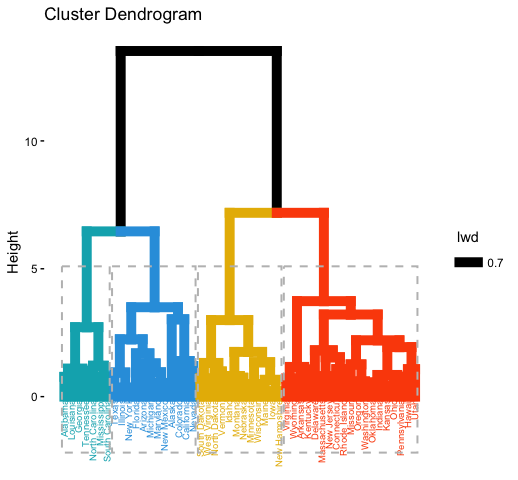
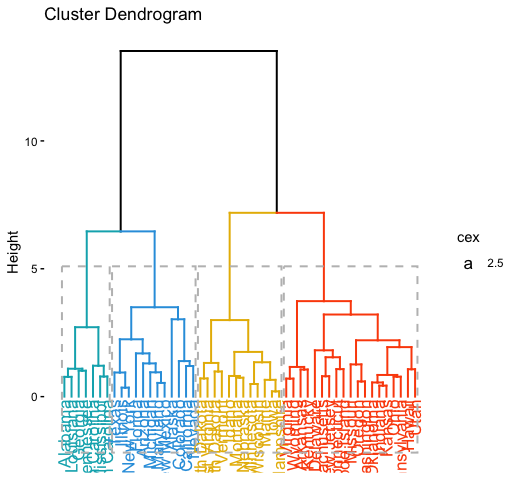
docs: refresh examples and package documentation

Changed region(s): [[0.0927, 0.0938, 0.834, 1.0], [0.8649, 0.4688, 0.9884, 0.5625]]

diff --git a/README.md b/README.md
@@ -1,3 +1,4 @@
+
 [![R-CMD-check](https://github.com/kassambara/factoextra/actions/workflows/R-CMD-check.yaml/badge.svg)](https://github.com/kassambara/factoextra/actions/workflows/R-CMD-check.yaml)
 [![CRAN_Status_Badge](https://www.r-pkg.org/badges/version/factoextra)](https://cran.r-project.org/package=factoextra)
 [![Downloads](https://cranlogs.r-pkg.org/badges/factoextra)](https://cran.r-project.org/package=factoextra)
@@ -61,7 +62,7 @@ reduction analysis - we developed an easy-to-use R package named
 
 - The R package **factoextra** has flexible and easy-to-use methods to
   extract quickly, in a human readable standard data format, the
-  analysis results from the different packages mentioned above.  
+  analysis results from the different packages mentioned above.\
 - It produces a **ggplot2**-based **elegant data visualization** with
   less typing.
 - It contains also many functions facilitating clustering analysis and
@@ -87,7 +88,7 @@ at: <https://rpkgs.datanovia.com/factoextra/index.html>.
     visualizing the most important information contained in your data.
 
 2.  *After PCA, CA, MCA, MFA, FAMD and HMFA, the most important
-    row/column elements* can be highlighted using :  
+    row/column elements* can be highlighted using :\
 
 - their cos2 values corresponding to their quality of representation on
   the factor map
@@ -96,7 +97,7 @@ at: <https://rpkgs.datanovia.com/factoextra/index.html>.
 <span class="success">If you want to do this, the factoextra package
 provides a convenient solution.</span>
 
-1.  *PCA and (M)CA are used sometimes for prediction problems* : one can
+3.  *PCA and (M)CA are used sometimes for prediction problems* : one can
     predict the coordinates of new supplementary variables (quantitative
     and qualitative) and supplementary individuals using the information
     provided by the previously performed PCA or (M)CA. This can be done
@@ -109,7 +110,7 @@ to visualize the position of the supplementary variables/individuals on
 the factor map using ggplot2: then factoextra can help you. It’s quick,
 write less and do more…</span>
 
-1.  *Several functions from different packages - FactoMineR, ade4,
+4.  *Several functions from different packages - FactoMineR, ade4,
     ExPosition, stats - are available in R for performing PCA, CA or
     MCA*. However, The components of the output vary from package to
     package.
@@ -168,6 +169,12 @@ library("factoextra")
 # New helper: map legacy FactoMineR category labels
 map_factominer_legacy_names(res.mfa, c("var.level"))
 
+# New support: supplementary qualitative categories in FactoMineR FAMD/MFA
+get_famd(res.famd, "quali.sup")
+fviz_famd_var(res.famd, "quali.sup")
+get_mfa(res.mfa, "quali.sup")
+fviz_mfa_var(res.mfa, "quali.sup")
+
 # New helper: remove stale package lock directories
 clean_lock_files()
 
@@ -185,13 +192,13 @@ list.</span>
 ### Visualizing dimension reduction analysis outputs
 
 | Functions | Description |
-|-----------|-------------------------------------------------------------|
+|----|----|
 | *fviz_eig (or fviz_eigenvalue)* | Extract and visualize the eigenvalues/variances of dimensions. |
 | *fviz_pca* | Graph of individuals/variables from the output of *Principal Component Analysis* (PCA). |
 | *fviz_ca* | Graph of column/row variables from the output of *Correspondence Analysis* (CA). |
 | *fviz_mca* | Graph of individuals/variables from the output of *Multiple Correspondence Analysis* (MCA). |
-| *fviz_mfa* | Graph of individuals/variables from the output of *Multiple Factor Analysis* (MFA). |
-| *fviz_famd* | Graph of individuals/variables from the output of *Factor Analysis of Mixed Data* (FAMD). |
+| *fviz_mfa* | Graph of individuals/variables from the output of *Multiple Factor Analysis* (MFA), including supplementary qualitative categories. |
+| *fviz_famd* | Graph of individuals/variables from the output of *Factor Analysis of Mixed Data* (FAMD), including supplementary qualitative categories. |
 | *fviz_hmfa* | Graph of individuals/variables from the output of *Hierarchical Multiple Factor Analysis* (HMFA). |
 | *fviz_ellipses* | Draw confidence ellipses around the categories. |
 | *fviz_cos2* | Visualize the quality of representation of the row/column variable from the results of PCA, CA, MCA functions. |
@@ -200,20 +207,20 @@ list.</span>
 ### Extracting data from dimension reduction analysis outputs
 
 | Functions | Description |
-|-----------|-------------------------------------------------------------|
+|----|----|
 | *get_eigenvalue* | Extract and visualize the eigenvalues/variances of dimensions. |
 | *get_pca* | Extract all the results (coordinates, squared cosine, contributions) for the active individuals/variables from *Principal Component Analysis* (PCA) outputs. |
 | *get_ca* | Extract all the results (coordinates, squared cosine, contributions) for the active column/row variables from *Correspondence Analysis* outputs. |
 | *get_mca* | Extract results from *Multiple Correspondence Analysis* outputs. |
-| *get_mfa* | Extract results from *Multiple Factor Analysis* outputs. |
-| *get_famd* | Extract results from *Factor Analysis of Mixed Data* outputs. |
+| *get_mfa* | Extract results from *Multiple Factor Analysis* outputs, including supplementary qualitative categories. |
+| *get_famd* | Extract results from *Factor Analysis of Mixed Data* outputs, including supplementary qualitative categories. |
 | *get_hmfa* | Extract results from *Hierarchical Multiple Factor Analysis* outputs. |
 | *facto_summarize* | Subset and summarize the output of factor analyses. |
 
 ### Clustering analysis and visualization
 
 | Functions | Description |
-|-----------|-------------------------------------------------------------|
+|----|----|
 | *dist*(fviz_dist, get_dist) | Enhanced Distance Matrix Computation and Visualization. |
 | *get_clust_tendency* | Assessing Clustering Tendency. |
 | *fviz_nbclust*(fviz_gap_stat) | Determining and Visualizing the Optimal Number of Clusters. |
@@ -265,20 +272,20 @@ principal component analysis at: [**Principal Component Analysis**
 ``` r
 library("factoextra")
 #> Loading required package: ggplot2
-#> Welcome to factoextra! ggpubr and FactoMineR have been loaded.
-#> Want to learn more? See two factoextra-related books at https://goo.gl/ve3WBa
+#> Welcome to factoextra!
+#> Want to learn more? See two factoextra-related books at https://www.datanovia.com/en/product/practical-guide-to-principal-component-methods-in-r/
 data("decathlon2")
 df <- decathlon2[1:23, 1:10]
 ```
 
-1.  **Principal component analysis**
+2.  **Principal component analysis**
 
 ``` r
 library("FactoMineR")
 res.pca <- PCA(df,  graph = FALSE)
 ```
 
-1.  **Extract and visualize eigenvalues/variances**:
+3.  **Extract and visualize eigenvalues/variances**:
 
 ``` r
 # Extract eigenvalues/variances
@@ -298,7 +305,7 @@ get_eig(res.pca)
 fviz_screeplot(res.pca, addlabels = TRUE, ylim = c(0, 50))
 ```
 
-![](tools/README-pca-eigenvalue-1.png)
+![](tools/README-pca-eigenvalue-1.png)<!-- -->
 
 4.**Extract and visualize results for variables**:
 
@@ -335,7 +342,7 @@ head(var$contrib)
 fviz_pca_var(res.pca, col.var = "black")
 ```
 
-![](tools/README-pca-variables-1.png)
+![](tools/README-pca-variables-1.png)<!-- -->
 
 It’s possible to control variable colors using their contributions
 (“contrib”) to the principal axes:
@@ -348,9 +355,9 @@ fviz_pca_var(res.pca, col.var="contrib",
              )
 ```
 
-![](tools/README-pca-variable-colors-by-contributions-1.png)
+![](tools/README-pca-variable-colors-by-contributions-1.png)<!-- -->
 
-1.  **Variable contributions to the principal axes**:
+5.  **Variable contributions to the principal axes**:
 
 ``` r
 # Contributions of variables to PC1
@@ -362,7 +369,7 @@ fviz_contrib(res.pca, choice = "var", axes = 2, top = 10)
 
 ![](tools/README-pca-variable-contributions-1.png)![](tools/README-pca-variable-contributions-2.png)
 
-1.  **Extract and visualize results for individuals**:
+6.  **Extract and visualize results for individuals**:
 
 ``` r
 # Extract the results for individuals
@@ -395,16 +402,16 @@ fviz_pca_ind(res.pca, col.ind = "cos2",
              )
 ```
 
-![](tools/README-principal-component-analysis-data-mining-1.png)
+![](tools/README-principal-component-analysis-data-mining-1.png)<!-- -->
 
 ``` r
 # Biplot of individuals and variables
 fviz_pca_biplot(res.pca, repel = TRUE)
 ```
 
-![](tools/README-principal-component-analysis-data-mining-2.png)
+![](tools/README-principal-component-analysis-data-mining-2.png)<!-- -->
 
-1.  **Color individuals by groups**:
+7.  **Color individuals by groups**:
 
 ``` r
 # Compute PCA on the iris data set
@@ -422,7 +429,7 @@ fviz_pca_ind(iris.pca,
              )
 ```
 
-![](tools/README-individuals-factor-map-color-by-groups-1.png)
+![](tools/README-individuals-factor-map-color-by-groups-1.png)<!-- -->
 
 ### Correspondence analysis
 
@@ -461,7 +468,7 @@ get_ca_col(res.ca)
 fviz_ca_biplot(res.ca, repel = TRUE)
 ```
 
-![](tools/README-correspondence-analysis-biplot-1.png)
+![](tools/README-correspondence-analysis-biplot-1.png)<!-- -->
 
 To visualize only row points or column points, type this:
 
@@ -499,7 +506,7 @@ res.mca <- MCA(poison, quanti.sup = 1:2,
               quali.sup = 3:4, graph=FALSE)
 ```
 
-1.  **Extract results for variables and individuals**:
+2.  **Extract results for variables and individuals**:
 
 ``` r
 # Extract the results for variable categories
@@ -509,7 +516,7 @@ get_mca_var(res.mca)
 get_mca_ind(res.mca)
 ```
 
-1.  **Contribution of variables and individuals to the principal axes**:
+3.  **Contribution of variables and individuals to the principal axes**:
 
 ``` r
 # Visualize variable categorie contributions on axes 1
@@ -520,7 +527,7 @@ fviz_contrib(res.mca, choice ="var", axes = 1)
 fviz_contrib(res.mca, choice ="ind", axes = 1, top = 20)
 ```
 
-1.  **Graph of individuals**
+4.  **Graph of individuals**
 
 ``` r
 # Color by groups
@@ -531,23 +538,23 @@ fviz_mca_ind(res.mca,  habillage = grp,
              addEllipses = TRUE, repel = TRUE)
 ```
 
-![](tools/README-mca-graph-of-individuals-1.png)
+![](tools/README-mca-graph-of-individuals-1.png)<!-- -->
 
-1.  **Graph of variable categories**:
+5.  **Graph of variable categories**:
 
 ``` r
 fviz_mca_var(res.mca, repel = TRUE)
 ```
 
-![](tools/README-mca-graph-variables-1.png)
+![](tools/README-mca-graph-variables-1.png)<!-- -->
 
-1.  **Biplot of individuals and variables**:
+6.  **Biplot of individuals and variables**:
 
 ``` r
 fviz_mca_biplot(res.mca, repel = TRUE)
 ```
 
-![](tools/README-mca-biplot-1.png)
+![](tools/README-mca-biplot-1.png)<!-- -->
 
 ### Advanced methods
 
@@ -611,9 +618,11 @@ fviz_cluster(km.res, data = df,
              )
 ```
 
-![](tools/README-partitioning-clustering-1.png)
+![](tools/README-partitioning-clustering-1.png)<!-- -->
 
-<br/>  
+<br/>\
+
+<div class="success">
 
 Read more:
 
@@ -622,6 +631,8 @@ Read more:
 
 2.  [Partitioning cluster
     analysis](https://www.datanovia.com/en/courses/partitional-clustering-in-r-the-essentials/).
+
+</div>
 
 <br/>
 
@@ -637,9 +648,11 @@ fviz_dend(res, rect = TRUE, cex = 0.5,
           k_colors = c("#00AFBB","#2E9FDF", "#E7B800", "#FC4E07"))
 ```
 
-![](tools/README-hierarchical-clustering-1.png)
+![](tools/README-hierarchical-clustering-1.png)<!-- -->
 
-<br/>  
+<br/>\
+
+<div class="success">
 
 Read more:
 
@@ -648,6 +661,8 @@ Read more:
 
 2.  [Hierarchical clustering
     essentials](https://www.datanovia.com/en/courses/hierarchical-clustering-in-r-the-essentials/)
+
+</div>
 
 <br/>
 
@@ -660,7 +675,7 @@ my_data <- scale(USArrests)
 fviz_nbclust(my_data, kmeans, method = "gap_stat")
 ```
 
-![](tools/README-determine-the-number-of-clusters-gap-statistics-1.png)
+![](tools/README-determine-the-number-of-clusters-gap-statistics-1.png)<!-- -->
 
 ## Acknoweledgment
 

diff --git a/cran-comments.md b/cran-comments.md
@@ -10,6 +10,17 @@ All checks run via GitHub Actions.
 
 0 errors | 0 warnings | 1 note
 
+## Additional local pre-submission checks (March 13, 2026)
+
+* macOS Tahoe 26.3.1 — R 4.5.3
+* `devtools::run_examples(run_donttest = TRUE)`: clean after refreshing examples and manuals
+* `R CMD check factoextra_2.0.0.999.tar.gz`: 0 errors | 0 warnings | 0 notes
+* `R CMD check --as-cran factoextra_2.0.0.999.tar.gz`: 0 errors | 0 warnings | 1 note
+
+The remaining `--as-cran` note is environment-specific:
+
+* `unable to verify current time`
+
 ## Major version bump
 
 This is a major update (1.0.7 → 2.0.0). The last CRAN release was in April 2020. Key changes include:

diff --git a/NEWS.md b/NEWS.md
@@ -3,6 +3,11 @@
 * (development version)
 * `fviz_dend()`: `lwd` now controls ggplot branch thickness correctly and no
   longer triggers a spurious linewidth legend. (#200, @erdeyl)
+* `get_famd()`, `get_mfa()`, `facto_summarize()`, `fviz_famd_*()`, and
+  `fviz_mfa_*()` now support supplementary qualitative variable categories via
+  `quali.sup`, including the related overlay, print, and category-name
+  compatibility paths. Regression coverage and examples were expanded
+  accordingly. (#202, @erdeyl)
 
 # factoextra 2.0.0
 
